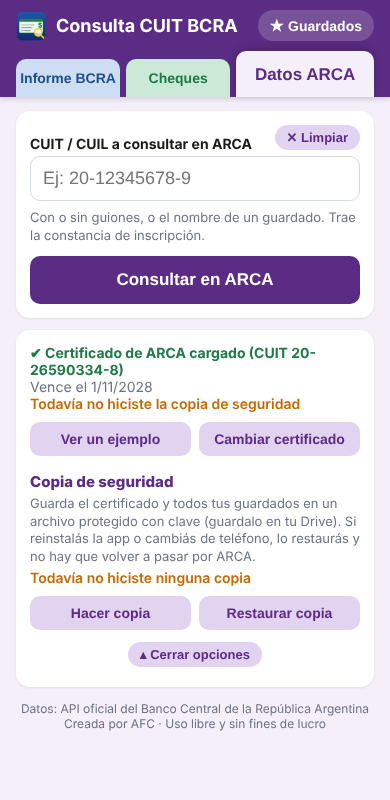
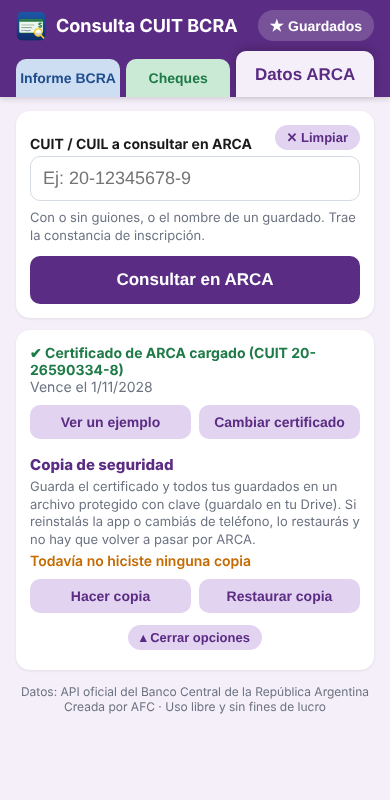
ARCA: no repetir aviso de copia al abrir opciones; título de constancia
Claude-Session: https://claude.ai/code/session_01GSbEukz9KGX2oZ3MJxZD8M

Changed region(s): [[0.0615, 0.5, 0.9538, 0.9062], [0.0615, 0.8438, 0.1231, 0.9062]]

diff --git a/www/index.html b/www/index.html
@@ -178,7 +178,7 @@
   details.config > summary { list-style: none; cursor: pointer; }
   details.config > summary::-webkit-details-marker { display: none; }
   details.config .abrir { display: inline-block; margin-top: 8px; color: var(--color); font-weight: 700; font-size: 14px; }
-  details.config[open] .abrir { display: none; }
+  details.config[open] .abrir, details.config[open] .sin-copia { display: none; }
   details.ayuda-mas { margin-top: 8px; font-size: 13px; color: var(--gris); }
   details.ayuda-mas summary { color: var(--color); font-weight: 700; cursor: pointer; }
   .cert-ok { color: var(--ok); font-weight: 700; font-size: 14px; }
@@ -865,7 +865,7 @@ function pintarConfigArca() {
     const sinCopia = !almacen.leer('ultimaCopia', '');
     caja.innerHTML = `<details class="config"${dias < 30 ? ' open' : ''}><summary><div class="cert-ok">✔ Certificado de ARCA cargado (CUIT ${esc(fmtCuit(arcaCfg.cuit))})</div>
       <div class="sub ${dias < 30 ? 'rojo' : ''}">Vence el ${ic.vence.toLocaleDateString('es-AR')}${dias < 30 ? ` · ¡faltan ${Math.max(dias, 0)} días! Hay que renovarlo` : ''}</div>
-      ${sinCopia ? '<div class="sub naranja" style="font-weight:600">Todavía no hiciste la copia de seguridad</div>' : ''}
+      ${sinCopia ? '<div class="sub naranja sin-copia" style="font-weight:600">Todavía no hiciste la copia de seguridad</div>' : ''}
       <span class="abrir">⚙ Opciones y copia de seguridad ▾</span></summary>
       <div class="acciones"><button class="btn sec chico" id="arcaEjemplo">Ver un ejemplo</button><button class="btn sec chico" id="arcaRehacer">Cambiar certificado</button></div></details>`;
     $('arcaRehacer').onclick = () => borrarCertArca('¿Borrar el certificado cargado y armar uno nuevo?\n\nVas a tener que hacer de nuevo los pasos en la página de ARCA.');
@@ -1138,7 +1138,7 @@ function mostrarArca(doc, cuit, ejemplo) {
 
   let h = `<div class="tarjeta resultado arca">
     ${ejemplo ? '<div class="ejemplo">EJEMPLO · datos inventados para ver cómo sale</div>' : ''}
-    <div class="sub">CUIT ${fmtCuit(cuit)}<button class="copiar-cuit no-imprimir" data-copiar="${fmtCuit(cuit)}" aria-label="Copiar CUIT"><svg viewBox="0 0 24 24" fill="none" stroke="currentColor" stroke-width="2.2" stroke-linecap="round" stroke-linejoin="round"><rect x="9" y="9" width="12" height="12" rx="2"/><path d="M5 15H4a2 2 0 0 1-2-2V4a2 2 0 0 1 2-2h9a2 2 0 0 1 2 2v1"/></svg>Copiar</button> · Constancia ARCA</div>
+    <div class="sub">Constancia ARCA · CUIT ${fmtCuit(cuit)}<button class="copiar-cuit no-imprimir" data-copiar="${fmtCuit(cuit)}" aria-label="Copiar CUIT"><svg viewBox="0 0 24 24" fill="none" stroke="currentColor" stroke-width="2.2" stroke-linecap="round" stroke-linejoin="round"><rect x="9" y="9" width="12" height="12" rx="2"/><path d="M5 15H4a2 2 0 0 1-2-2V4a2 2 0 0 1 2-2h9a2 2 0 0 1 2 2v1"/></svg>Copiar</button></div>
     <h2>${nombre ? esc(nombre) : '<span class="naranja">Sin nombre registrado</span>'}</h2>
     <div class="estado ${activo ? 'bien' : 'mal'}">${activo ? '✔' : '✖'} CUIT ${esc(val(g, 'estadoClave') || 'sin estado')}${iva ? `<small>Condición frente al IVA: ${esc(iva)}${catMono ? ' · Categoría ' + esc(val(catMono, 'descripcionCategoria')) : ''}</small>` : ''}</div>
     <div class="seccion arca">Datos generales</div>
